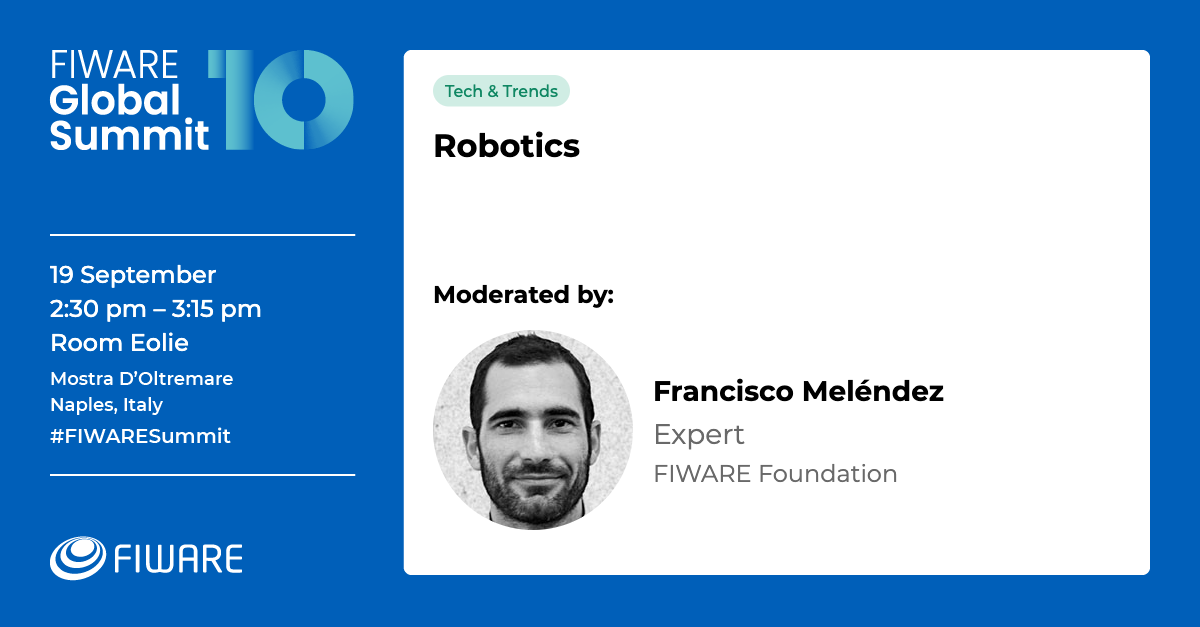
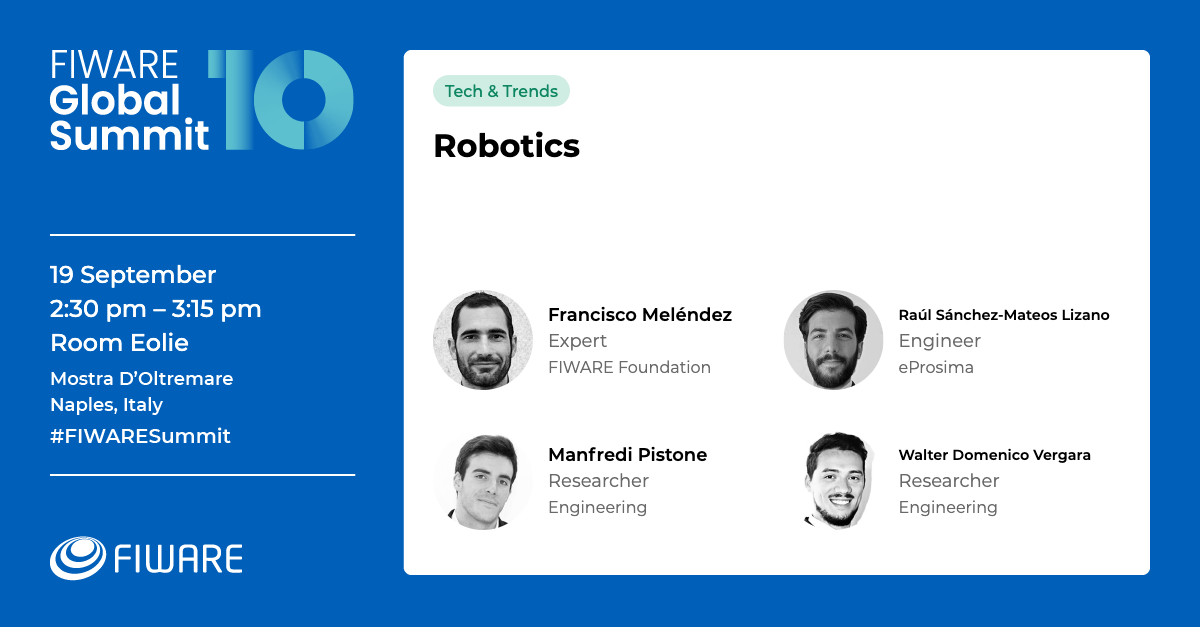
Add robotics 4 panel.

Changed region(s): [[0.3392, 0.4545, 0.925, 0.8485]]

diff --git a/bin/template.js b/bin/template.js
@@ -124,8 +124,8 @@ function multiline(data) {
     return data;
 }
 
-function longTitle(data) {
-    if (data && data.length > 90){
+function longTitle(data, size) {
+    if (data && data.length > size){
         return `<span style="font-size:80%;">${data}</span>`
     }
     return data;
